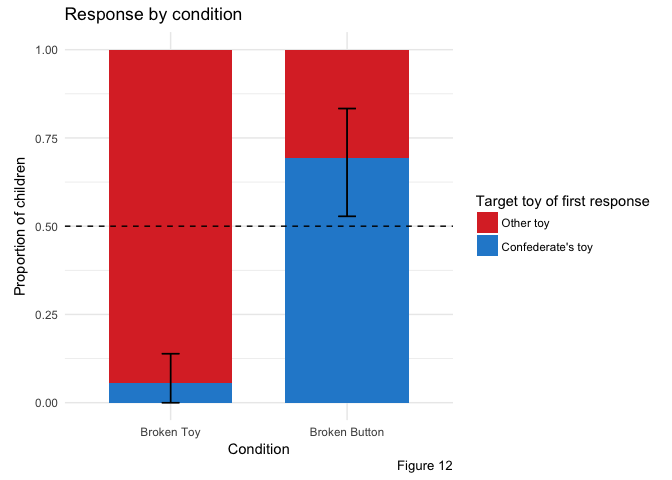
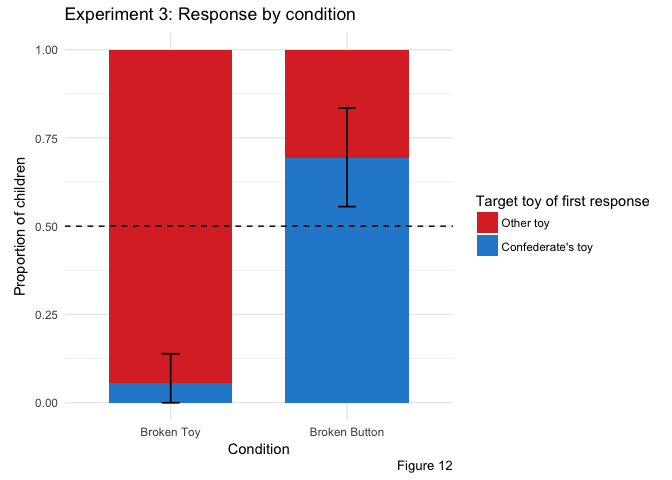
add plot prefixes, code for combining across exps

Changed region(s): [[0.0938, 0.0, 0.5312, 0.0625], [0.5, 0.4062, 0.5312, 0.4688], [0.5, 0.2188, 0.5312, 0.25]]

diff --git a/thesis.md b/thesis.md
@@ -167,11 +167,6 @@ We predicted responses to vary across conditions depending on the source of the 
 
 ![](thesis_files/figure-markdown_github-ascii_identifiers/unnamed-chunk-12-1.png)
 
-    ## # A tibble: 1 x 6
-    ##   num_bb num_bt num_total perc_total p_value_bt p_value_bb
-    ##    <int>  <int>     <int>      <dbl>      <dbl>      <dbl>
-    ## 1     13     27        40      0.625          0      0.377
-
 We also looked at responses within each condition. As predicted, children in the Broken Toy condition were more likely to target the "other toy" than the "confederate's toy" (27/32; two-tailed binomial test, p &lt; 0.001). Therefore, children appear to be reasoning that the confederate has the inert toy based on the her actions and their prior knowledge about the functionality of the two toys.
 
 We did not have a directed prediction for the Broken Button condition because, as described earlier, targeting either toy can be helpful. Children in the Broken Button condition showed no preference for either toy (13/32; two-tailed binomial test, p = 0.377).
@@ -289,6 +284,17 @@ Discussion
 ==========
 
 The results from this experiment again replicate our main finding from Experiment 1 that children's responses to the confederate's request vary depending on the likely source of her failure.
+
+In contrast to the previous experiment, children in the Broken Button condition preferentially targeted the confederate's toy. The results of this experiment cannot disentangle the various explanations for the behavior of children in the Broken Button condition in Experiment 2. However, they do indicate that children are likely attributing the specific goal to the confederate in this experiment, and thus are sensitive to information about the confederate's goal.
+
+In the Broken Toy condition, children still preferentially target the other toy, even though the toys are now visually distinct. This indicates that children are still willing to override the confederate's choice of toy if they realize her choice is incompatible with her goal, even though her actions make it likely that she has a preference for one toy type over another.
+
+General Discussion
+==================
+
+In all three experiments, children responded differently depending on the likely source of the confederate's failure. This suggests that 2- and 3-year-olds can recruit prior knowledge to reason about the likely cause of another's failure and to effectively help.
+
+![](thesis_files/figure-markdown_github-ascii_identifiers/unnamed-chunk-29-1.png)![](thesis_files/figure-markdown_github-ascii_identifiers/unnamed-chunk-29-2.png)
 
 COMMENTS TO SELF
 ================
